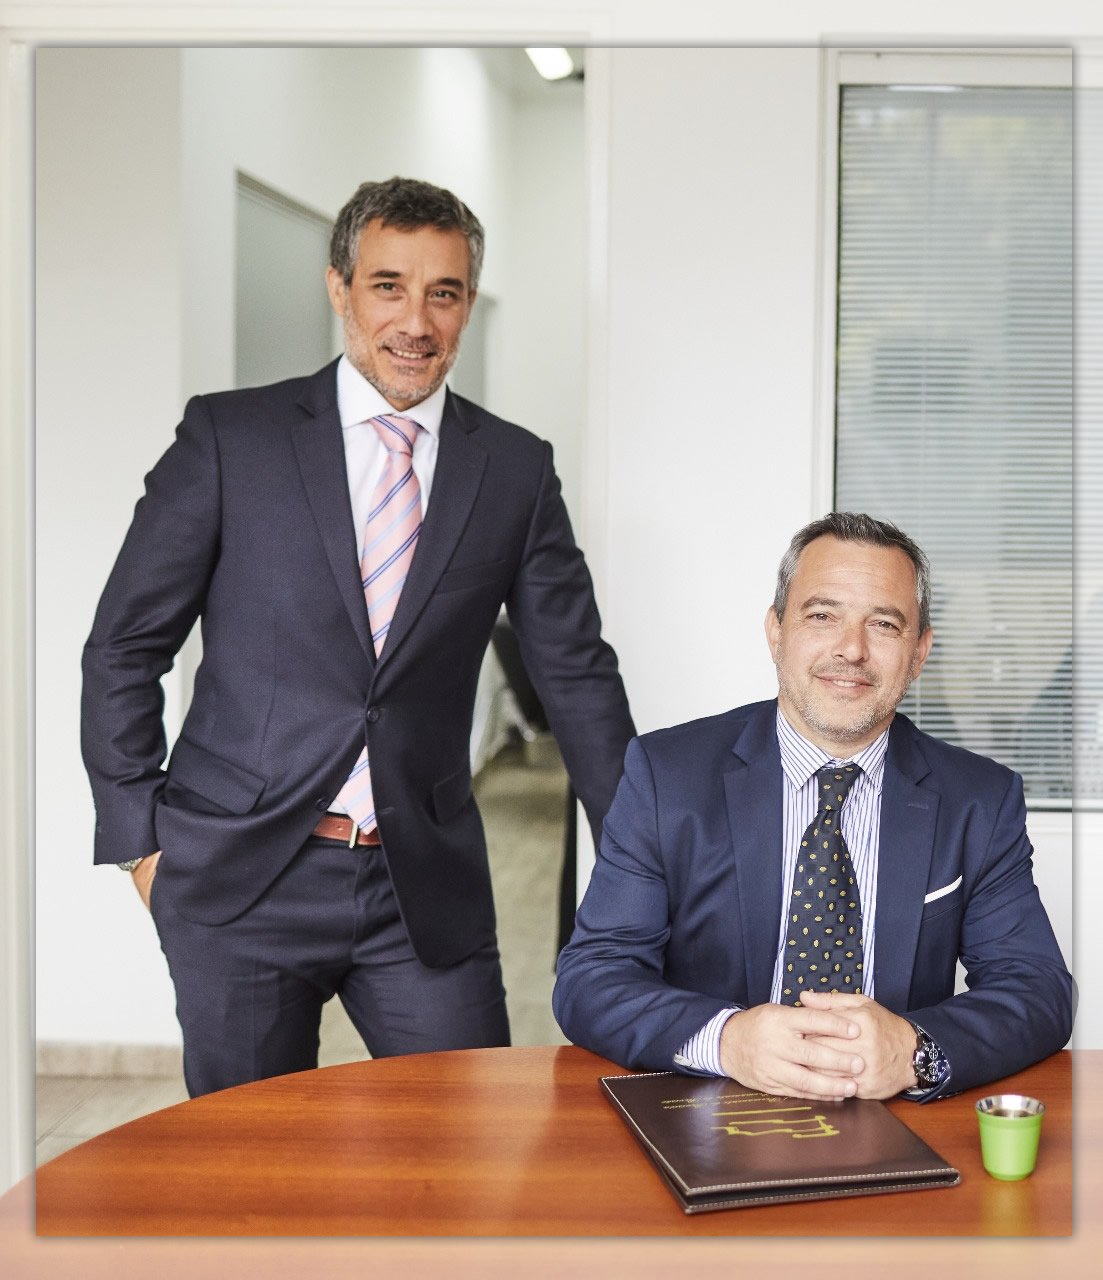
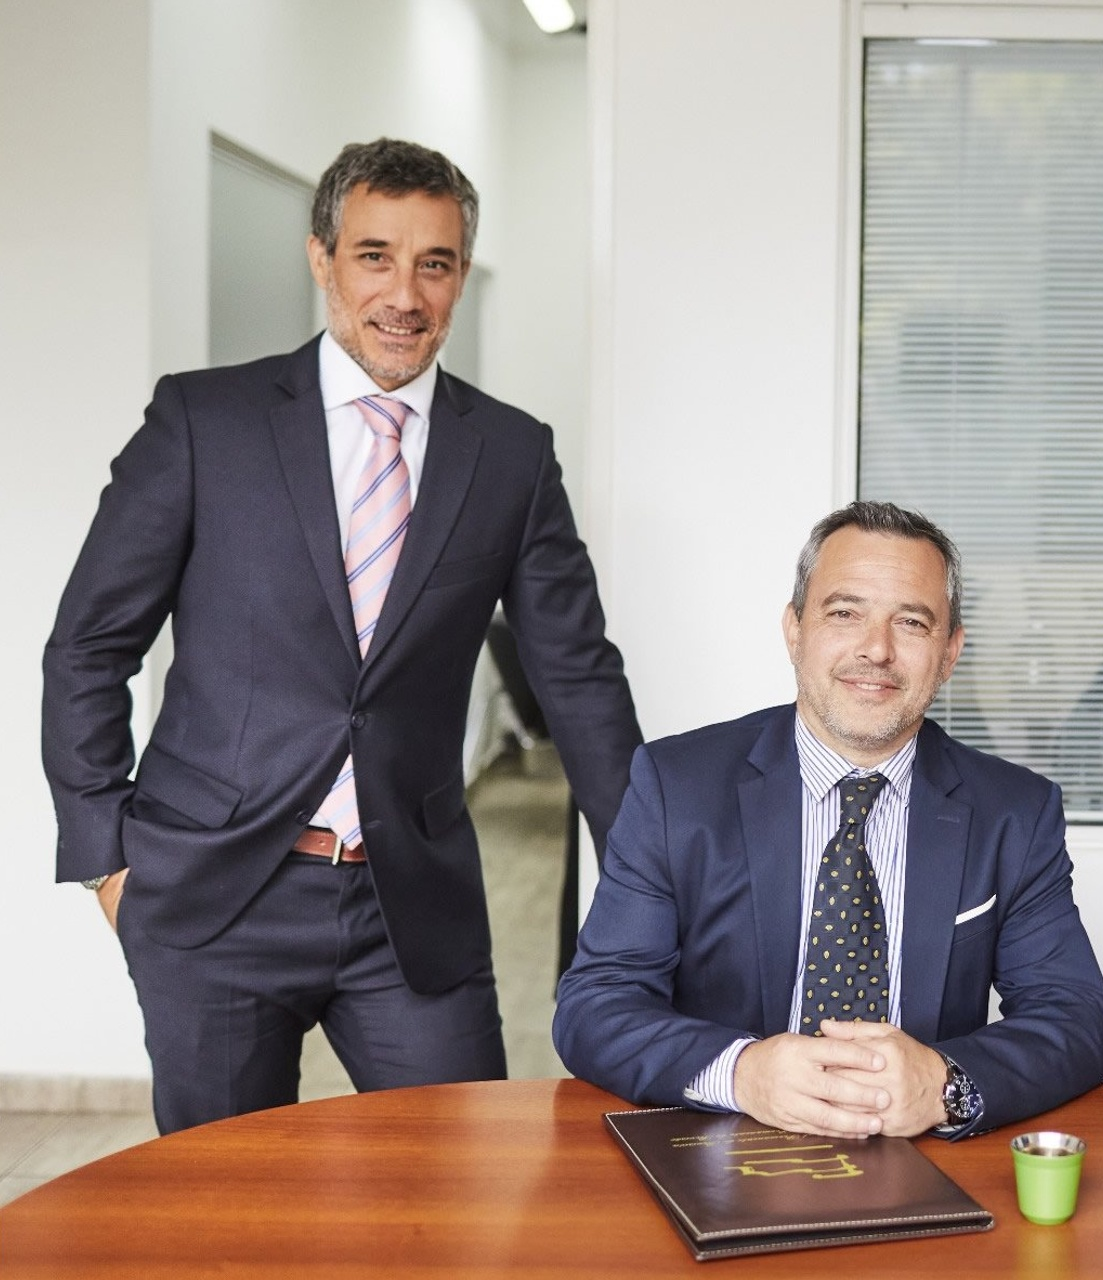
Configurar dominio oficial delucafmoores.com.ar, SEO, sitemap, schema markup y optimizar recursos visuales

diff --git a/src/content/site.ts b/src/content/site.ts
@@ -3,9 +3,9 @@
 export const site = {
   name: 'Deluca & Fernández Moores',
   shortName: 'DyFM',
-  title: 'Deluca & Fernández Moores · Abogados | Estudio Jurídico Buenos Aires',
+  title: 'Estudio Jurídico en Buenos Aires | Deluca & Fernández Moores',
   description:
-    'Estudio Jurídico en Buenos Aires especialista en derecho societario, compliance, litigios civiles y comerciales, derecho aduanero, penal económico y derecho a la salud.',
+    'Estudio jurídico en Buenos Aires. Asesoramiento en derecho societario, compliance, litigios civiles y comerciales, derecho aduanero, penal económico y derecho a la salud.',
   lang: 'es-AR',
   ogLocale: 'es_AR',
   themeColor: '#141414',
